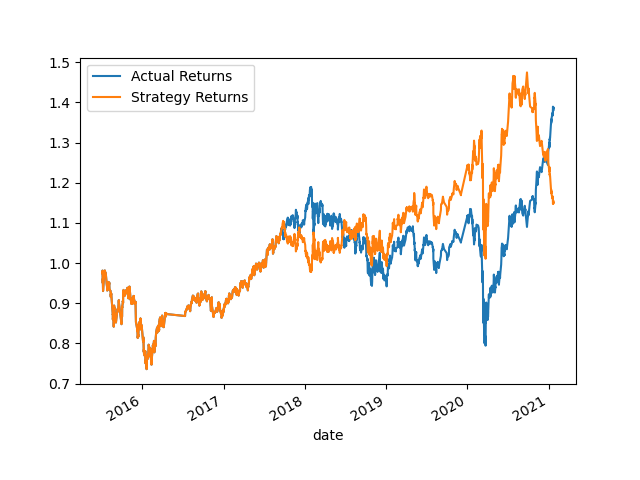
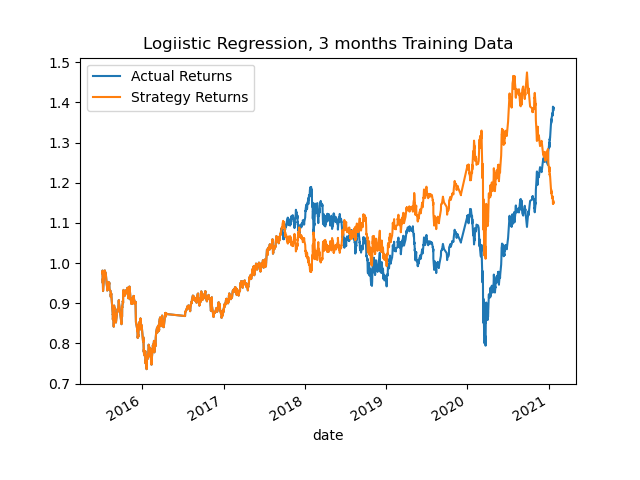
fix title on LR graph; fix display of class rpt

Changed region(s): [[0.5, 0.0625, 0.8125, 0.125], [0.2188, 0.0625, 0.4688, 0.125]]

diff --git a/README.md b/README.md
@@ -30,6 +30,8 @@ Comparing the two, the SVM model closely followed the actual returns.  However, 
 weighted avg       0.50      0.55      0.43      4092
 
 
+
+
 the model overall did fairly poorly at predicting the buy and sell signals, and the low F1 scores do not provide a high confidence in the model.
 
 ![image info](actual_vs_svm_cum_returns_3_mos.png)
@@ -46,8 +48,8 @@ First tuning was to use the original data, but change the amount of training dat
          1.0       0.56      0.98      0.71      2211
 
     accuracy                           0.56      3943
-   macro avg       0.50      0.50      0.38      3943
-weighted avg       0.51      0.56      0.42      3943
+    macro avg      0.50      0.50      0.38      3943
+    weighted avg   0.51      0.56      0.42      3943
 
 
 
@@ -67,8 +69,8 @@ For this Tuning I used 4 days for short moving average and 49 days for long movi
          1.0       0.56      0.83      0.67      2278
 
     accuracy                           0.54      4069
-   macro avg       0.49      0.50      0.45      4069
-weighted avg       0.50      0.54      0.48      4069
+    macro avg      0.49      0.50      0.45      4069
+    weighted av    0.50      0.54      0.48      4069
 
 and graph:
 
@@ -86,8 +88,8 @@ Logistic regression yielded the following classification report:
          1.0       0.56      0.66      0.61      2288
 
     accuracy                           0.52      4092
-   macro avg       0.50      0.50      0.49      4092
-weighted avg       0.51      0.52      0.51      4092
+    macro avg      0.50      0.50      0.49      4092
+    weighted avg   0.51      0.52      0.51      4092
 
 and graph:
 
